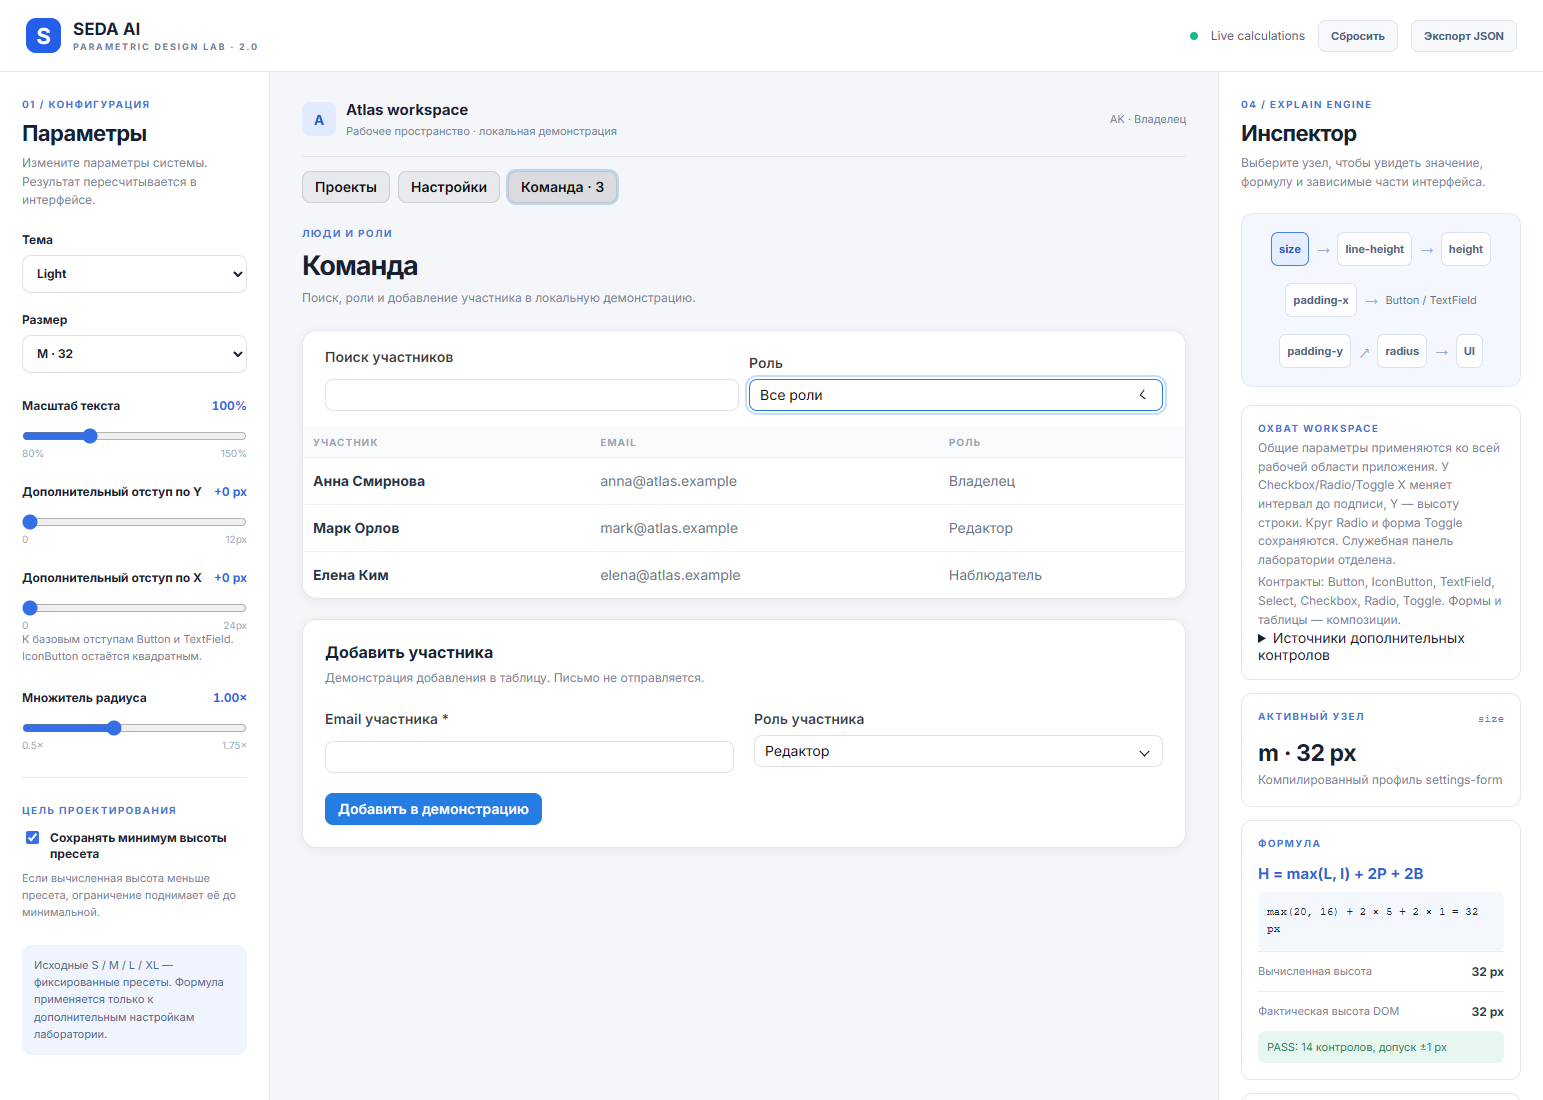
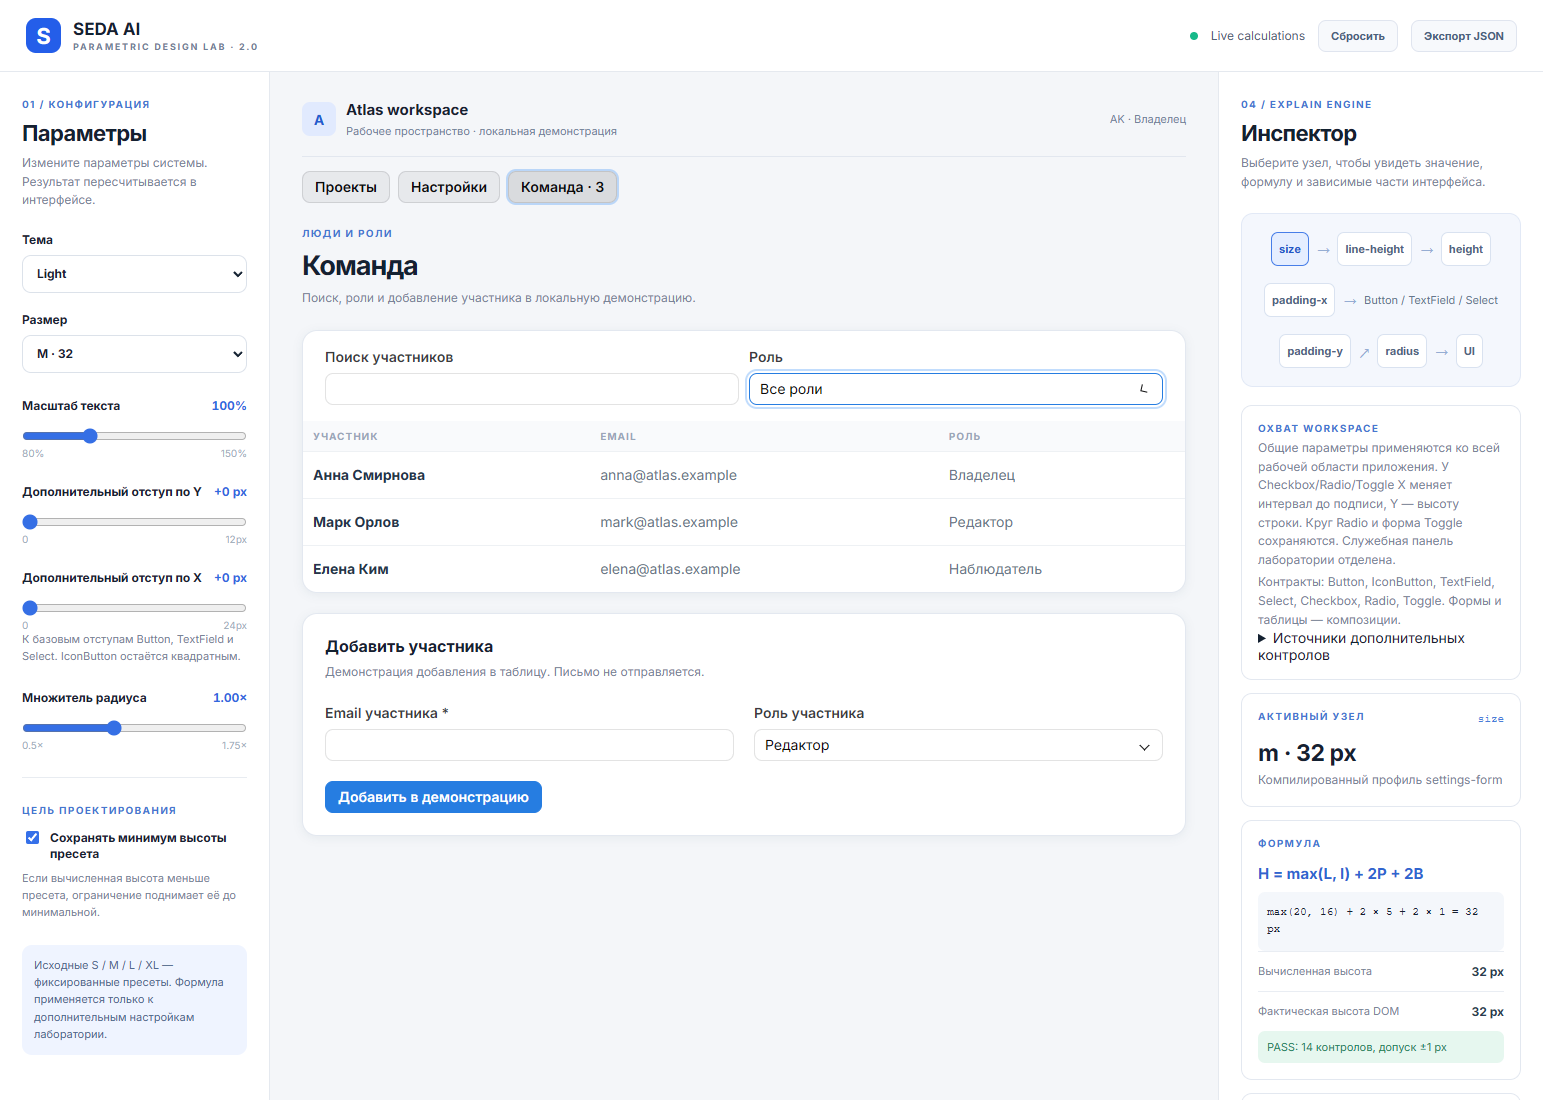
Align field labels and verify shared workspace spacing

diff --git a/portal/component-lab/pilots/settings-parametric/workspace.css b/portal/component-lab/pilots/settings-parametric/workspace.css
@@ -552,3 +552,5 @@ body.dark .form-section-heading span {
 [data-workspace] .seda-toggle .seda-field__message { color: var(--seda-toggle-helper-default); }
 [data-workspace] .seda-toggle[data-disabled="true"] .seda-field__message { color: var(--seda-toggle-helper-disabled); }
 [data-workspace] .seda-choice__control:disabled:is(:checked,:indeterminate)::after { background: var(--seda-checkbox-control-icon-disabled); }
+/* TextField already owns its label margin; avoid adding the shared grid gap twice. */
+[data-workspace] .seda-field--text { gap: 0; }

diff --git a/portal/component-lab/pilots/settings-parametric/LAB2-INTEGRATION-REPORT.md b/portal/component-lab/pilots/settings-parametric/LAB2-INTEGRATION-REPORT.md
@@ -17,6 +17,7 @@
 ## Исправления компонентов
 
 - У input/select убрана двойная рамка фокуса: индикатор принадлежит всей поверхности поля, внутренний элемент не рисует вторую рамку. Клавиатурный фокус остаётся видимым.
+- У TextField устранён двойной интервал между label и полем в workspace: margin компонента больше не суммируется с grid gap адаптера. Подписи input/select выровнены с допуском 1 px.
 - Select сохраняет нативную семантику, ref и поведение формы. При поддержке `appearance: base-select` popup оформлен теми же component tokens: фон, границы, радиус, размер строк, выбранный пункт и disabled options. При отсутствии поддержки используется системный popup.
 - Select/Checkbox/Radio/Toggle объединяют внешний `aria-describedby` с локальным сообщением без повторов и висячего локального ID. Общая утилита использует уже принятые правила TextField для содержимого ReactNode.
 - Disabled подавляет визуальную/ARIA ошибку; helper остаётся доступным. У Radio исправлен конфликт checked/defaultChecked. Checkbox сохраняет mixed/indeterminate. Toggle блокирует pointer и keyboard изменения во время loading.
